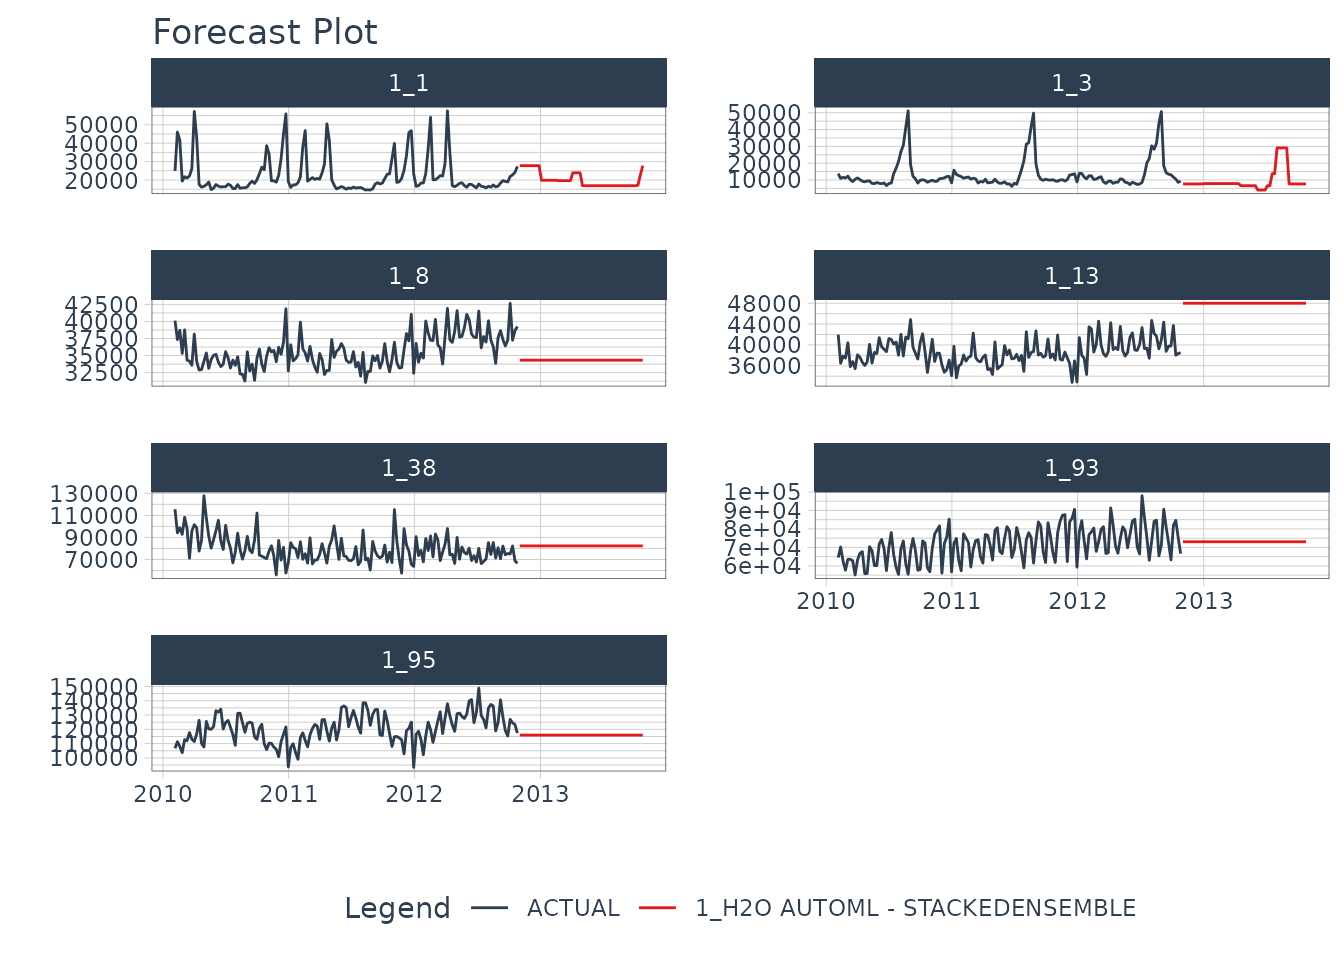
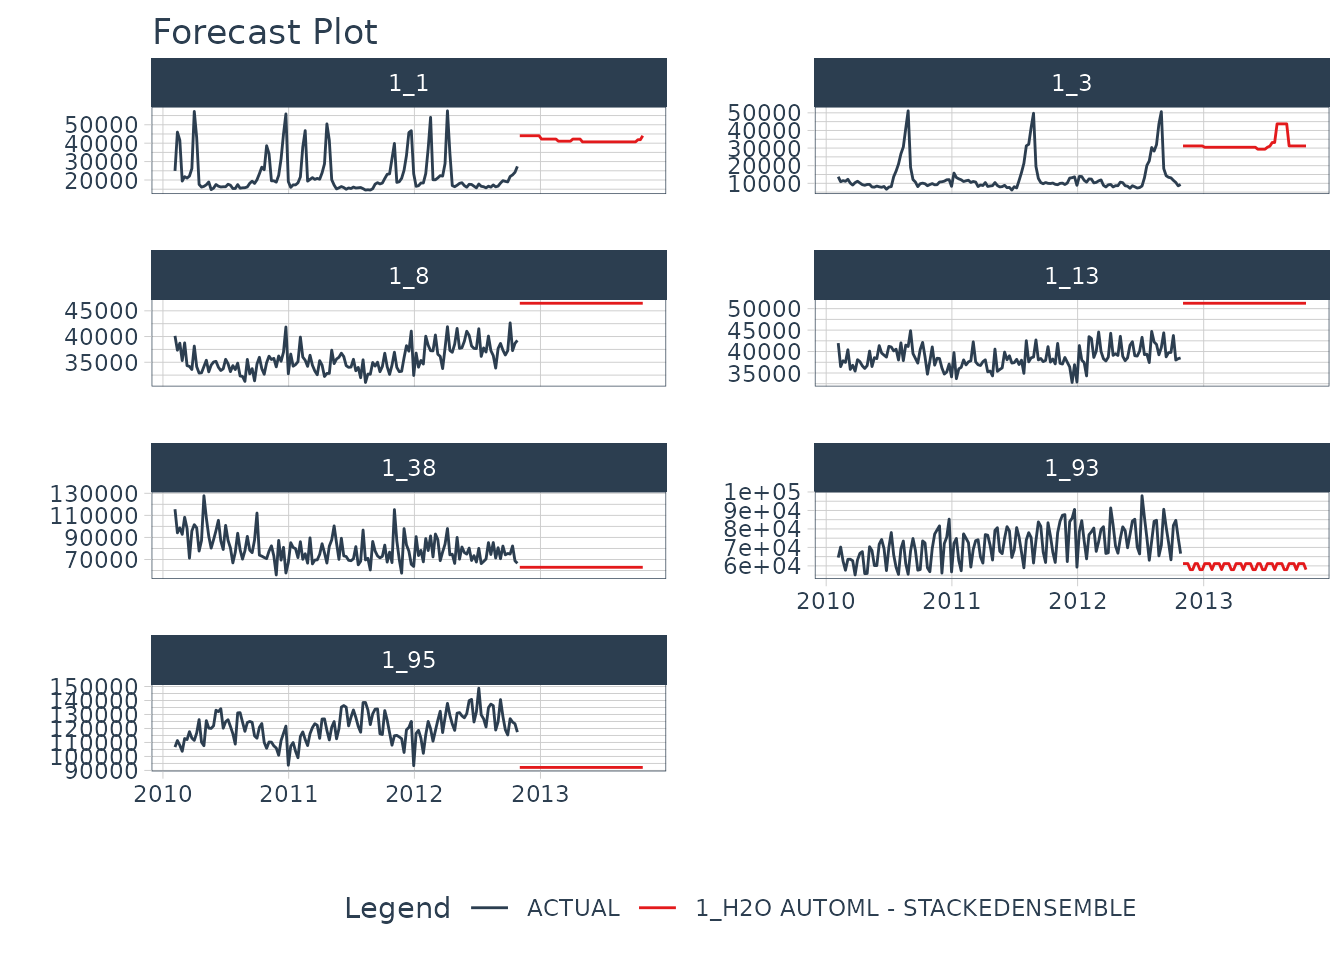
Built site for modeltime.h2o: 0.1.0.9000@f930bf6

diff --git a/articles/getting-started.html b/articles/getting-started.html
@@ -168,19 +168,19 @@
 <span class="co">#&gt; H2O is not running yet, starting it now...</span>
 <span class="co">#&gt; </span>
 <span class="co">#&gt; Note:  In case of errors look at the following log files:</span>
-<span class="co">#&gt;     /tmp/RtmpVAydhg/file4140712eb5f6/h2o_runner_started_from_r.out</span>
-<span class="co">#&gt;     /tmp/RtmpVAydhg/file41401a363299/h2o_runner_started_from_r.err</span>
+<span class="co">#&gt;     /tmp/RtmpENfKR2/file3dbb47e511e9/h2o_runner_started_from_r.out</span>
+<span class="co">#&gt;     /tmp/RtmpENfKR2/file3dbb178808a6/h2o_runner_started_from_r.err</span>
 <span class="co">#&gt; </span>
 <span class="co">#&gt; </span>
-<span class="co">#&gt; Starting H2O JVM and connecting: ..... Connection successful!</span>
+<span class="co">#&gt; Starting H2O JVM and connecting: ... Connection successful!</span>
 <span class="co">#&gt; </span>
 <span class="co">#&gt; R is connected to the H2O cluster: </span>
-<span class="co">#&gt;     H2O cluster uptime:         4 seconds 12 milliseconds </span>
+<span class="co">#&gt;     H2O cluster uptime:         2 seconds 590 milliseconds </span>
 <span class="co">#&gt;     H2O cluster timezone:       UTC </span>
 <span class="co">#&gt;     H2O data parsing timezone:  UTC </span>
 <span class="co">#&gt;     H2O cluster version:        3.32.0.1 </span>
 <span class="co">#&gt;     H2O cluster version age:    5 months and 11 days !!! </span>
-<span class="co">#&gt;     H2O cluster name:           H2O_started_from_R_runner_tlv643 </span>
+<span class="co">#&gt;     H2O cluster name:           H2O_started_from_R_runner_amc448 </span>
 <span class="co">#&gt;     H2O cluster total nodes:    1 </span>
 <span class="co">#&gt;     H2O cluster total memory:   1.51 GB </span>
 <span class="co">#&gt;     H2O cluster total cores:    2 </span>
@@ -227,22 +227,22 @@
 <code class="sourceCode R"><span class="va">model_fitted</span> <span class="op">&lt;-</span> <span class="va">model_spec</span> <span class="op">%&gt;%</span>
     <span class="fu">fit</span><span class="op">(</span><span class="va">Weekly_Sales</span> <span class="op">~</span> <span class="va">.</span>, data <span class="op">=</span> <span class="va">train_tbl</span><span class="op">)</span>
 <span class="co">#&gt;                                           model_id mean_residual_deviance</span>
-<span class="co">#&gt; 1 StackedEnsemble_AllModels_AutoML_20210320_005034              395888651</span>
-<span class="co">#&gt; 2                 XGBoost_3_AutoML_20210320_005034              975959049</span>
-<span class="co">#&gt; 3                 XGBoost_2_AutoML_20210320_005034             1367397741</span>
-<span class="co">#&gt; 4                 XGBoost_1_AutoML_20210320_005034             1401426144</span>
-<span class="co">#&gt;       rmse        mse      mae     rmsle</span>
-<span class="co">#&gt; 1 19896.95  395888651 14994.08 0.4318021</span>
-<span class="co">#&gt; 2 31240.34  975959049 20300.90 0.7910169</span>
-<span class="co">#&gt; 3 36978.34 1367397741 26209.96 0.9568766</span>
-<span class="co">#&gt; 4 37435.63 1401426144 26526.03 0.9599921</span>
+<span class="co">#&gt; 1 StackedEnsemble_AllModels_AutoML_20210320_005340              155888140</span>
+<span class="co">#&gt; 2                 XGBoost_3_AutoML_20210320_005340              293895739</span>
+<span class="co">#&gt; 3                 XGBoost_2_AutoML_20210320_005340             1155709343</span>
+<span class="co">#&gt; 4                 XGBoost_1_AutoML_20210320_005340             1209298728</span>
+<span class="co">#&gt;       rmse        mse       mae     rmsle</span>
+<span class="co">#&gt; 1 12485.52  155888140  9038.713 0.2389231</span>
+<span class="co">#&gt; 2 17143.39  293895739 11352.049 0.3072503</span>
+<span class="co">#&gt; 3 33995.73 1155709343 23989.388 0.8423622</span>
+<span class="co">#&gt; 4 34774.97 1209298728 25043.280 0.8497787</span>
 <span class="co">#&gt; </span>
 <span class="co">#&gt; [4 rows x 6 columns]</span>
 
 <span class="va">model_fitted</span>
 <span class="co">#&gt; parsnip model object</span>
 <span class="co">#&gt; </span>
-<span class="co">#&gt; Fit time:  13.7s </span>
+<span class="co">#&gt; Fit time:  13s </span>
 <span class="co">#&gt; </span>
 <span class="co">#&gt; H2O AutoML - Stackedensemble</span>
 <span class="co">#&gt; --------</span>
@@ -250,7 +250,7 @@
 <span class="co">#&gt; ==============</span>
 <span class="co">#&gt; </span>
 <span class="co">#&gt; H2ORegressionModel: stackedensemble</span>
-<span class="co">#&gt; Model ID:  StackedEnsemble_AllModels_AutoML_20210320_005034 </span>
+<span class="co">#&gt; Model ID:  StackedEnsemble_AllModels_AutoML_20210320_005340 </span>
 <span class="co">#&gt; Number of Base Models: 3</span>
 <span class="co">#&gt; </span>
 <span class="co">#&gt; Base Models (count by algorithm type):</span>
@@ -271,11 +271,11 @@
 <span class="co">#&gt; H2ORegressionMetrics: stackedensemble</span>
 <span class="co">#&gt; ** Reported on training data. **</span>
 <span class="co">#&gt; </span>
-<span class="co">#&gt; MSE:  139773549</span>
-<span class="co">#&gt; RMSE:  11822.59</span>
-<span class="co">#&gt; MAE:  10291.5</span>
-<span class="co">#&gt; RMSLE:  0.445258</span>
-<span class="co">#&gt; Mean Residual Deviance :  139773549</span>
+<span class="co">#&gt; MSE:  64101063</span>
+<span class="co">#&gt; RMSE:  8006.314</span>
+<span class="co">#&gt; MAE:  6429.391</span>
+<span class="co">#&gt; RMSLE:  0.2512483</span>
+<span class="co">#&gt; Mean Residual Deviance :  64101063</span>
 <span class="co">#&gt; </span>
 <span class="co">#&gt; </span>
 <span class="co">#&gt; </span>
@@ -283,21 +283,21 @@
 <span class="co">#&gt; ** Reported on cross-validation data. **</span>
 <span class="co">#&gt; ** 5-fold cross-validation on training data (Metrics computed for combined holdout predictions) **</span>
 <span class="co">#&gt; </span>
-<span class="co">#&gt; MSE:  395888651</span>
-<span class="co">#&gt; RMSE:  19896.95</span>
-<span class="co">#&gt; MAE:  14994.08</span>
-<span class="co">#&gt; RMSLE:  0.4318021</span>
-<span class="co">#&gt; Mean Residual Deviance :  395888651</span></code></pre></div>
+<span class="co">#&gt; MSE:  155888140</span>
+<span class="co">#&gt; RMSE:  12485.52</span>
+<span class="co">#&gt; MAE:  9038.713</span>
+<span class="co">#&gt; RMSLE:  0.2389231</span>
+<span class="co">#&gt; Mean Residual Deviance :  155888140</span></code></pre></div>
 <p>The best models are stored in the <code>leaderbord</code> and by default the one with the best metric with which you have decided to sort the leaderbord is selected (this behavior can be controlled with the <code>sort_metric</code> parameter passed through set_engine. For more information see ?h2o.automl. By default, it is sorted by the mean_residual_deviance). To list the models created during training that have finally been stored in the leaderbord you can use the <code>automl_leaderbord</code> function as follows:</p>
 <div class="sourceCode" id="cb7"><pre class="downlit sourceCode r">
 <code class="sourceCode R"><span class="fu"><a href="../reference/automl_leaderboard.html">automl_leaderboard</a></span><span class="op">(</span><span class="va">model_fitted</span><span class="op">)</span>
 <span class="co">#&gt; # A tibble: 4 x 6</span>
 <span class="co">#&gt;   model_id                      mean_residual_devi…   rmse      mse    mae rmsle</span>
 <span class="co">#&gt;   &lt;chr&gt;                                       &lt;dbl&gt;  &lt;dbl&gt;    &lt;dbl&gt;  &lt;dbl&gt; &lt;dbl&gt;</span>
-<span class="co">#&gt; 1 StackedEnsemble_AllModels_Au…          395888651. 19897.   3.96e8 14994. 0.432</span>
-<span class="co">#&gt; 2 XGBoost_3_AutoML_20210320_00…          975959049. 31240.   9.76e8 20301. 0.791</span>
-<span class="co">#&gt; 3 XGBoost_2_AutoML_20210320_00…         1367397741. 36978.   1.37e9 26210. 0.957</span>
-<span class="co">#&gt; 4 XGBoost_1_AutoML_20210320_00…         1401426144. 37436.   1.40e9 26526. 0.960</span></code></pre></div>
+<span class="co">#&gt; 1 StackedEnsemble_AllModels_Au…          155888140. 12486.   1.56e8  9039. 0.239</span>
+<span class="co">#&gt; 2 XGBoost_3_AutoML_20210320_00…          293895739. 17143.   2.94e8 11352. 0.307</span>
+<span class="co">#&gt; 3 XGBoost_2_AutoML_20210320_00…         1155709343. 33996.   1.16e9 23989. 0.842</span>
+<span class="co">#&gt; 4 XGBoost_1_AutoML_20210320_00…         1209298728. 34775.   1.21e9 25043. 0.850</span></code></pre></div>
 <p>To change the default selected model (remember, the first one sorted according to the selected metric) you can do it with the <code><a href="../reference/automl_leaderboard.html">automl_update_model()</a></code> function as follows (do not run the following example as the model id name will have changed as there is randomness in the process):</p>
 <div class="sourceCode" id="cb8"><pre class="downlit sourceCode r">
 <code class="sourceCode R"><span class="fu"><a href="../reference/automl_leaderboard.html">automl_update_model</a></span><span class="op">(</span><span class="va">model_fitted</span>, model_id <span class="op">=</span> <span class="st">"StackedEnsemble_AllModels_AutoML_20210319_204825"</span><span class="op">)</span></code></pre></div>
@@ -307,16 +307,16 @@
 <span class="co">#&gt; # A tibble: 84 x 1</span>
 <span class="co">#&gt;      .pred</span>
 <span class="co">#&gt;      &lt;dbl&gt;</span>
-<span class="co">#&gt;  1  29054.</span>
-<span class="co">#&gt;  2  42108.</span>
-<span class="co">#&gt;  3  42967.</span>
-<span class="co">#&gt;  4  49129.</span>
-<span class="co">#&gt;  5  80391.</span>
-<span class="co">#&gt;  6  72472.</span>
-<span class="co">#&gt;  7 112433.</span>
-<span class="co">#&gt;  8  29054.</span>
-<span class="co">#&gt;  9  42108.</span>
-<span class="co">#&gt; 10  42967.</span>
+<span class="co">#&gt;  1  30189.</span>
+<span class="co">#&gt;  2  33062.</span>
+<span class="co">#&gt;  3  37945.</span>
+<span class="co">#&gt;  4  47269.</span>
+<span class="co">#&gt;  5  79901.</span>
+<span class="co">#&gt;  6  74320.</span>
+<span class="co">#&gt;  7 119437.</span>
+<span class="co">#&gt;  8  30189.</span>
+<span class="co">#&gt;  9  39868.</span>
+<span class="co">#&gt; 10  37945.</span>
 <span class="co">#&gt; # … with 74 more rows</span></code></pre></div>
 </div>
 <div id="modeltime-workflow" class="section level2">
@@ -383,15 +383,15 @@
 <code class="sourceCode R"><span class="va">refit_tbl</span> <span class="op">&lt;-</span> <span class="va">modeltime_tbl</span> <span class="op">%&gt;%</span>
     <span class="fu">modeltime_refit</span><span class="op">(</span><span class="va">data_prepared_tbl</span><span class="op">)</span>
 <span class="co">#&gt;                                           model_id mean_residual_deviance</span>
-<span class="co">#&gt; 1 StackedEnsemble_AllModels_AutoML_20210320_005051               87715016</span>
-<span class="co">#&gt; 2                 XGBoost_2_AutoML_20210320_005051             1829200480</span>
-<span class="co">#&gt; 3                 XGBoost_3_AutoML_20210320_005051             2198195829</span>
-<span class="co">#&gt; 4                 XGBoost_1_AutoML_20210320_005051             2261584439</span>
-<span class="co">#&gt;       rmse        mse       mae     rmsle</span>
-<span class="co">#&gt; 1  9365.63   87715016  6990.627 0.2288029</span>
-<span class="co">#&gt; 2 42769.15 1829200480 33570.531 1.1037695</span>
-<span class="co">#&gt; 3 46884.92 2198195829 38428.029 1.2153485</span>
-<span class="co">#&gt; 4 47556.12 2261584439 38597.183 1.2282724</span>
+<span class="co">#&gt; 1 StackedEnsemble_AllModels_AutoML_20210320_005359              680575277</span>
+<span class="co">#&gt; 2                 XGBoost_3_AutoML_20210320_005359             1587790642</span>
+<span class="co">#&gt; 3                 XGBoost_2_AutoML_20210320_005359             1802082476</span>
+<span class="co">#&gt; 4                 XGBoost_1_AutoML_20210320_005359             1827422974</span>
+<span class="co">#&gt;       rmse        mse      mae     rmsle</span>
+<span class="co">#&gt; 1 26087.84  680575277 21666.80 0.5830631</span>
+<span class="co">#&gt; 2 39847.09 1587790642 30079.63 0.9887960</span>
+<span class="co">#&gt; 3 42450.94 1802082476 32777.80 1.0998055</span>
+<span class="co">#&gt; 4 42748.37 1827422974 32106.88 1.1000969</span>
 <span class="co">#&gt; </span>
 <span class="co">#&gt; [4 rows x 6 columns]</span>
 
